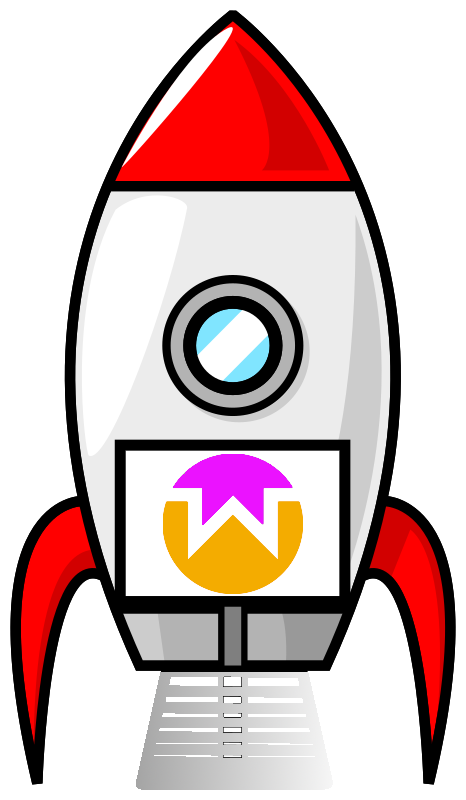
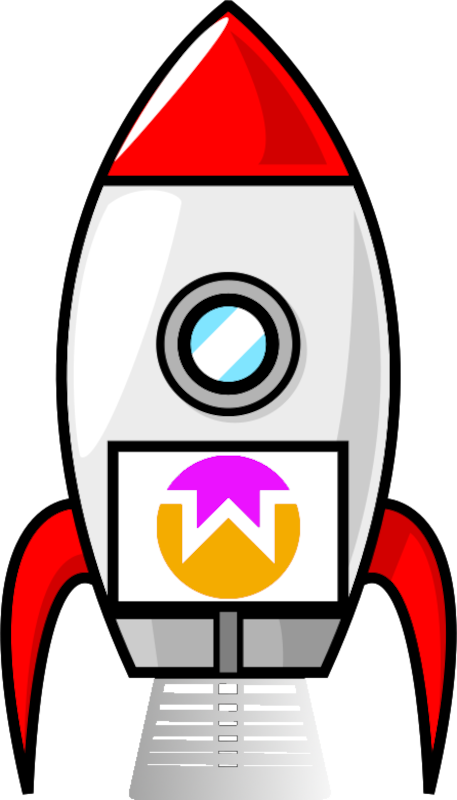
Ship skin system + currency rename to Moonrocks
- globalvar: SKIN_CATALOG with 9 skins (default + 8 unlockable), selected_skin/owned_skins
  persisted in savegame.json, buy_skin/select_skin/can_buy_skin helpers
- rocket.gd: load and apply selected skin texture in _ready()
- UpgradeShop: horizontal scrollable skin gallery with preview thumbnails,
  buy/select/active states, prices in Moonrocks
- Currency rename: all display strings changed from \"WOW\" to Moonrocks emoji
  across CryptoPickup, UpgradeShop, DeathScreen, Victory, WalletHUD,
  DebugOverlay. AdManager constant renamed REWARDED_AD_MOONROCKS.
- 8 new skin PNGs: alien, bitcoin, gold, litecoin, monero, retro, stealth, wownero
- 5 premium skin PNGs staged (alien_prem, default_prem, gold_prem, stealth_prem, wownero_prem)
- TODO.md updated

Changed region(s): [[0.0, 0.0, 1.0, 1.0]]

diff --git a/TODO.md b/TODO.md
@@ -57,20 +57,20 @@
 - [x] **Fuel efficiency upgrade** — reduce drain rate (in upgrade shop)
 
 ### Crypto Collectibles
-- [x] **WOW (Wownero)** — primary currency, common drop, used for upgrades
-- [x] **XMR (Monero)** — rare, worth 10x WOW, purple ring glow
-- [x] **BTC (Bitcoin)** — very rare, worth 50x WOW, golden glow
-- [x] **DOGE** — uncommon, worth 5x WOW, such wow
+- [x] **WOW (Wownero)** — primary currency, common drop, converted to Moonrocks (🪨) on pickup
+- [x] **XMR (Monero)** — rare, worth 10x, purple ring glow
+- [x] **BTC (Bitcoin)** — very rare, worth 50x, golden glow
+- [x] **DOGE** — uncommon, worth 5x, such wow
 - [x] **Floating crypto sprites** — spin slowly, bob up/down, self-drawing (CryptoPickup.gd)
 - [x] **Collection animation** — fly toward ship on pickup, +amount popup text
-- [x] **Wallet HUD** — show current WOW balance during gameplay (WalletHUD.gd)
+- [x] **Wallet HUD** — show current Moonrocks balance during gameplay (WalletHUD.gd)
 - [x] **Crypto spawner** — drop-in CryptoSpawner.gd with weighted random types + min spacing
 
 ### Scoring & Progression
 - [x] **Star rating** — 1-3 stars per level based on time + fuel remaining + crypto collected
 - [x] **Best time per level** — save and display on level select
 - [x] **Total crypto wallet** — persisted across sessions, shown in shop
-- [ ] **Achievements** — "First Landing", "Speed Demon" (under 10s), "Pacifist" (no deaths), "Crypto Whale" (1000 WOW), etc.
+- [ ] **Achievements** — "First Landing", "Speed Demon" (under 10s), "Pacifist" (no deaths), "Crypto Whale" (1000 Moonrocks), etc.
 - [x] **Leaderboard** — backend API at api.such.software, per-level rankings, auto-submit on victory
 
 ---
@@ -80,13 +80,13 @@
 ### Ads (Primary Revenue)
 - [x] **AdManager autoload** — platform-aware ad abstraction layer. Desktop always ad-free (itch.io sales). Web uses AdSense via JavaScriptBridge. Mobile has AdMob plugin stubs. IAP ad-removal persisted to user://adstate.json.
 - [x] **Interstitial ads** — shown between Victory and Upgrade Shop. Also every 3rd retry on DeathScreen. No-op if ad-free.
-- [x] **Rewarded video ads** — "Watch ad for 50 WOW" button on DeathScreen and in Upgrade Shop. Opt-in only. Grants AdManager.REWARDED_AD_WOW crypto.
+- [x] **Rewarded video ads** — "Watch ad for 50 Moonrocks" button on DeathScreen and in Upgrade Shop. Opt-in only. Grants AdManager.REWARDED_AD_MOONROCKS crypto.
 - [x] **Banner ad** — shown on Menu and Upgrade Shop screens. Hidden during gameplay (rocket.gd _ready).
 - [x] **Web ad integration** — Google AdSense via JavaScriptBridge for HTML5 builds. JS shell functions: showInterstitialAd, showRewardedAd, showBannerAd, hideBannerAd.
 
 ### Cosmetic IAP
-- [ ] **Ship skins** — unlockable rocket textures. Free skins earned via achievements (gold rocket for all 3★, skull rocket for 50 deaths). Premium skins via small IAP ($0.99–$2.99) or large WOW amounts.
-- [ ] **Skin storage** — save selected skin in savegame.json, apply as texture swap in rocket.gd `_ready()`.
+- [x] **Ship skins** — 8 skins (retro, stealth, gold, alien, wownero, monero, bitcoin, litecoin) at art/ship/skins/. Purchasable with Moonrocks in Upgrade Shop skin gallery. Texture swap in rocket.gd _ready(). Premium skins planned (different shapes).
+- [x] **Skin storage** — selected_skin + owned_skins persisted in savegame.json. globalvar SKIN_CATALOG maps skin_id to path/price/label.
 
 ### Premium Content
 - [ ] **Level pack unlock** — Levels 1–4 free. Levels 5–10 unlockable via one-time $2.99 IAP OR earning 2000 WOW in-game (grindable but incentivizes ad watching).
@@ -105,7 +105,7 @@
 - [x] **Martian speed scaling** — Level 2: 25, Level 3: 32–35, Level 4: 40–45. Per-instance speed set in .tscn.
 
 ### Retry & Checkpoints
-- [x] **DeathScreen overlay** — replaces old "3s timer → menu" death flow. Animated panel with Retry Level (free), Watch Ad for WOW (if ads supported), Quit to Menu. Interstitial every 3rd retry.
+- [x] **DeathScreen overlay** — replaces old "3s timer → menu" death flow. Animated panel with Retry Level (free), Watch Ad for Moonrocks (if ads supported), Quit to Menu. Interstitial every 3rd retry.
 - [x] **Celestial waypoints (Levels 5+)** — rocket.gd detects entering a waypoint planet's gravity well (Area2D radius check) and saves checkpoint (position, velocity, fuel) to globalvar. Waypoints are all "targets" group bodies except the last (final target). Each waypoint visited only once per run.
 - [ ] **Waypoint as gameplay** — waypoint planets double as gravity slingshot opportunities and refueling stations. Fuel pickups clustered near waypoints.
 - [x] **Checkpoint retry (Levels 5+)** — DeathScreen shows green "Retry from [Planet]" button when checkpoint exists. Reloads level with globalvar.restore_checkpoint flag; rocket.gd defers position/velocity/fuel restore via _apply_checkpoint().
@@ -162,7 +162,7 @@
 - [x] **Planet atmospheres** — colored atmosphere glow rings on all 9 planets. Each planet has unique color (Earth=blue, Mars=rusty red, Venus=yellow-orange, Jupiter=amber, Saturn=gold, Neptune=icy blue, Pluto=pale frost, Moon=silver, Io=sulfur yellow). Auto-detects body collision radius.
 - [ ] **Parallax depth** — more background layers for depth perception
 - [x] **Landing animation** — dust particle burst on successful landing (24 particles, warm tan, radial burst from feet). GPUParticles2D spawned programmatically in flagplanted().
-- [ ] **Ship skins** — unlockable via crypto, purely cosmetic
+- [ ] **Ship skins** — more skins: achievement-unlocked (gold for all 3★, skull for 50 deaths), premium IAP skins with different shapes
 - [ ] **Starfield shader** — replace static background with animated procedural stars
 
 ### Audio
@@ -181,7 +181,7 @@
 - [ ] **Laser beam** — continuous beam weapon, drains fuel to fire
 - [ ] **Mine layer** — drop mines behind you to stop pursuing martians
 - [ ] **EMP pulse** — disable all martians in radius for 5 seconds
-- [x] **Weapons as upgrades** — cannon upgrade in globalvar (10th upgrade, base cost 150 WOW, 5 levels). Faster fire rate per level (0.4s→0.15s). UpgradeShop shows cannon with 🔫 icon and fiery orange accent.
+- [x] **Weapons as upgrades** — cannon upgrade in globalvar (10th upgrade, base cost 150 Moonrocks, 5 levels). Faster fire rate per level (0.4s→0.15s). UpgradeShop shows cannon with 🔫 icon and fiery orange accent.
 
 
 ### 🌐 3D / First Person 